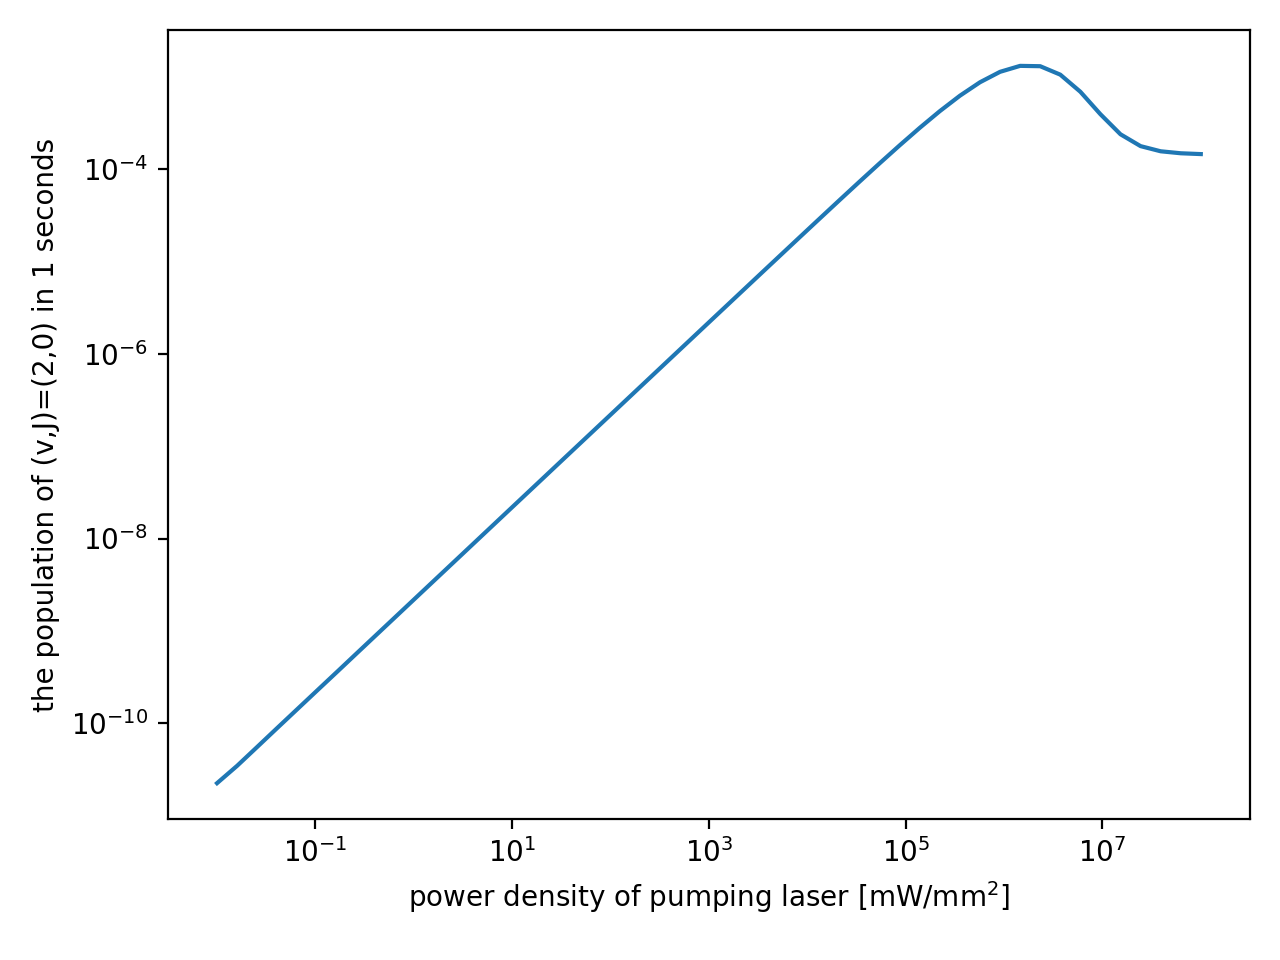
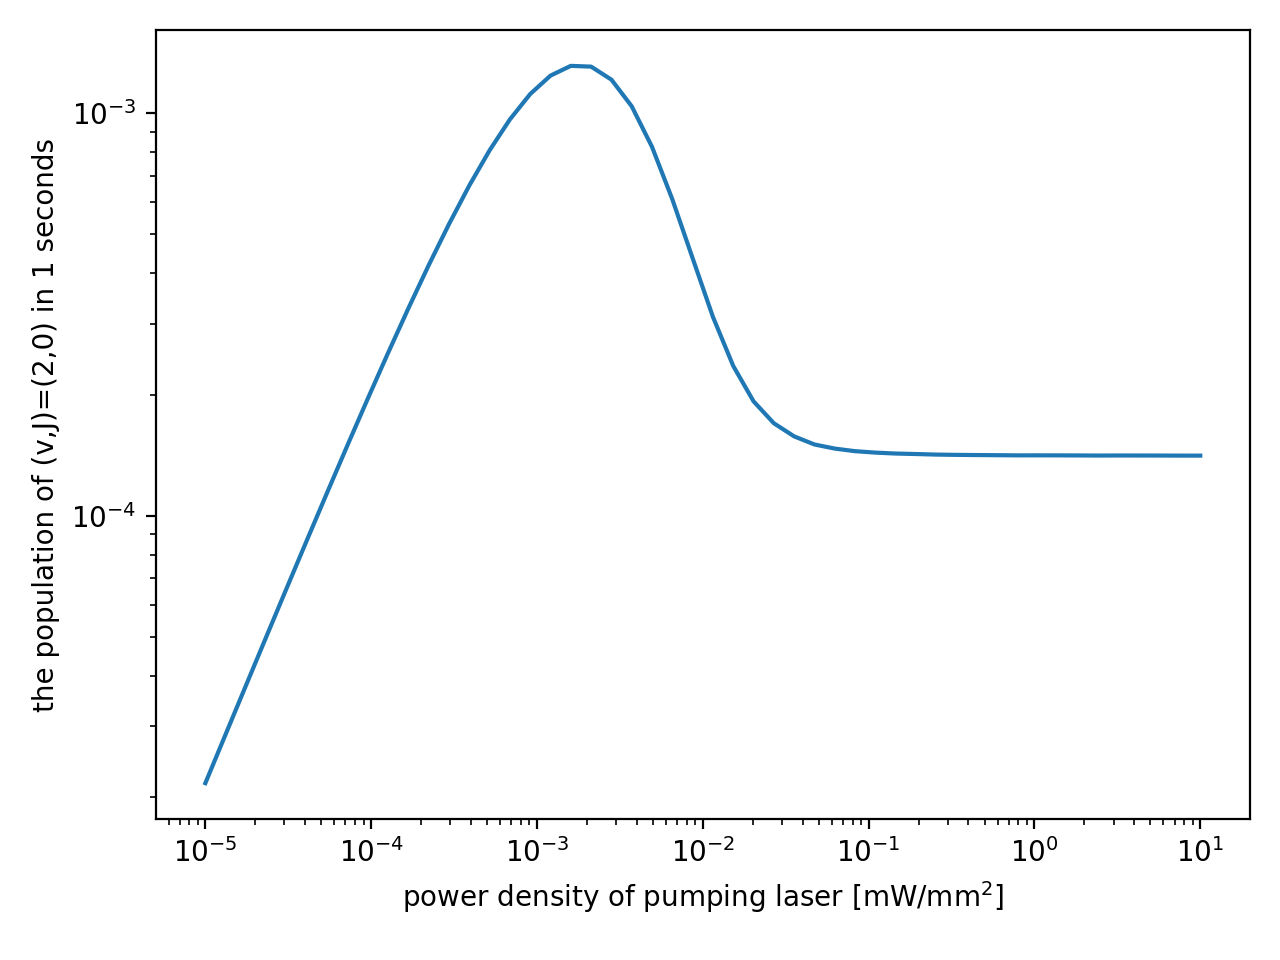
correct unit conversion

diff --git a/molecular_rotational_cooling.py b/molecular_rotational_cooling.py
@@ -191,10 +191,10 @@ class molecular_rotational_cooling:
         
         laser_Power_spectrum_FWHM_MHz = 30 # [MHz]
         
-        laser_Power_spectrum_FWHM = ((laser_Power_spectrum_FWHM_MHz * 1e6 * ((pumping_wave_length * 1e-9) ** 2)) / sciconst.c) * 1e9 # [nm]
+        laser_Power_spectrum_FWHM = ((laser_Power_spectrum_FWHM_MHz * 1e6 * ((pumping_wave_length * 1e-9) ** 2)) / sciconst.c) # [m]
         pumping_laser_Power_per_volume = (pumping_laser_Power / sciconst.c) * 1e6 * 1e-3 # [J/m^3]
-        pumping_laser_PSD_Wm3nm = pumping_laser_Power_per_volume / laser_Power_spectrum_FWHM  #[J/m^3/nm]
-        pumping_laser_PSD_Wm3nm_average = pumping_laser_PSD_Wm3nm * (0.7/2.965) # [J/m^3/nm]
+        pumping_laser_PSD_Wm3nm = pumping_laser_Power_per_volume / laser_Power_spectrum_FWHM  #[J/m^4]
+        pumping_laser_PSD_Wm3nm_average = pumping_laser_PSD_Wm3nm * (0.7/2.965) # [J/m^4]
         
         
         var_init = list(self.Boltzmann_plot[:self.J_num[0]]) + [0] * (self.J_num[1] + self.J_num[2])
@@ -298,7 +298,7 @@ class molecular_rotational_cooling:
     
     
     def draw_v_J_eachlaserPower(self, v, J, t_max=1500):
-        laserPower = np.logspace(2,8,10)
+        laserPower = np.logspace(-3,1,10)
         for Power in laserPower:
             self.run_laser_power(vJ_pump_i=[0,1], vJ_pump_f=[2,0], t_max=1500, pumping_laser_Power = Power)
             plt.plot(self.result_t, self.result_y[:, sum(self.J_num[:v])+J], label=r"Laser Power:{:.2e} mW/mm$^2$".format(Power))
@@ -313,7 +313,7 @@ class molecular_rotational_cooling:
         plt.close('all')
     
     def draw_laserPower_vs_v_J_peakTime(self, v, J, t_max=1500):
-        laserPower = np.logspace(-2,8,50)
+        laserPower = np.logspace(-5,1,50)
         v_J_peakTime = []
         for Power in laserPower:
             self.run_laser_power(vJ_pump_i=[0,1], vJ_pump_f=[2,0], t_max=1500, pumping_laser_Power = Power)
@@ -332,7 +332,7 @@ class molecular_rotational_cooling:
         plt.close('all')
     
     def draw_laserPower_vs_v_J_peakHeight(self, v, J, t_max=1500):
-        laserPower = np.logspace(-2,8,50)
+        laserPower = np.logspace(-5,1,50)
         v_J_peakHeight = []
         for Power in laserPower:
             self.run_laser_power(vJ_pump_i=[0,1], vJ_pump_f=[2,0], t_max=1500, pumping_laser_Power = Power)
@@ -351,7 +351,7 @@ class molecular_rotational_cooling:
         plt.close('all')
     
     def draw_laserPower_vs_v_J_1secHeight(self, v, J, t_max=1500):
-        laserPower = np.logspace(-2,8,50)
+        laserPower = np.logspace(-5,1,50)
         v_J_1secHeight = []
         for Power in laserPower:
             self.run_laser_power(vJ_pump_i=[0,1], vJ_pump_f=[2,0], t_max=1, pumping_laser_Power = Power)

diff --git a/molecular_parameters.py b/molecular_parameters.py
@@ -17,12 +17,12 @@ class molecular_const:
         self.Av += self.Av.T
         
         # Einstein B-coefficient of rotational Transitions for specific vibrational state in ground electronic state
-        # BJ(wave_length)[v,J] : [s^-1 / (J/m^3/nm)]
+        # BJ(wave_length)[v,J] : [s^-1 / (J/m^4)]
         # wave_length : [nm]
         self.BJ = lambda wave_length: AJ * ((wave_length * 1e-9) ** 5) / (8 * sciconst.pi * sciconst.h * sciconst.c )
         
         # Einstein B-coefficient of vibrational Transitions in ground electronic state
-        # Bv(wave_length)[v_init, v_fin] : [s^-1 / (J/m^3/nm)]
+        # Bv(wave_length)[v_init, v_fin] : [s^-1 / (J/m^4)]
         # wave_length : [nm]
         self.Bv = lambda wave_length: Av * ((wave_length * 1e-9) ** 5) / (8 * sciconst.pi * sciconst.h * sciconst.c)
         
